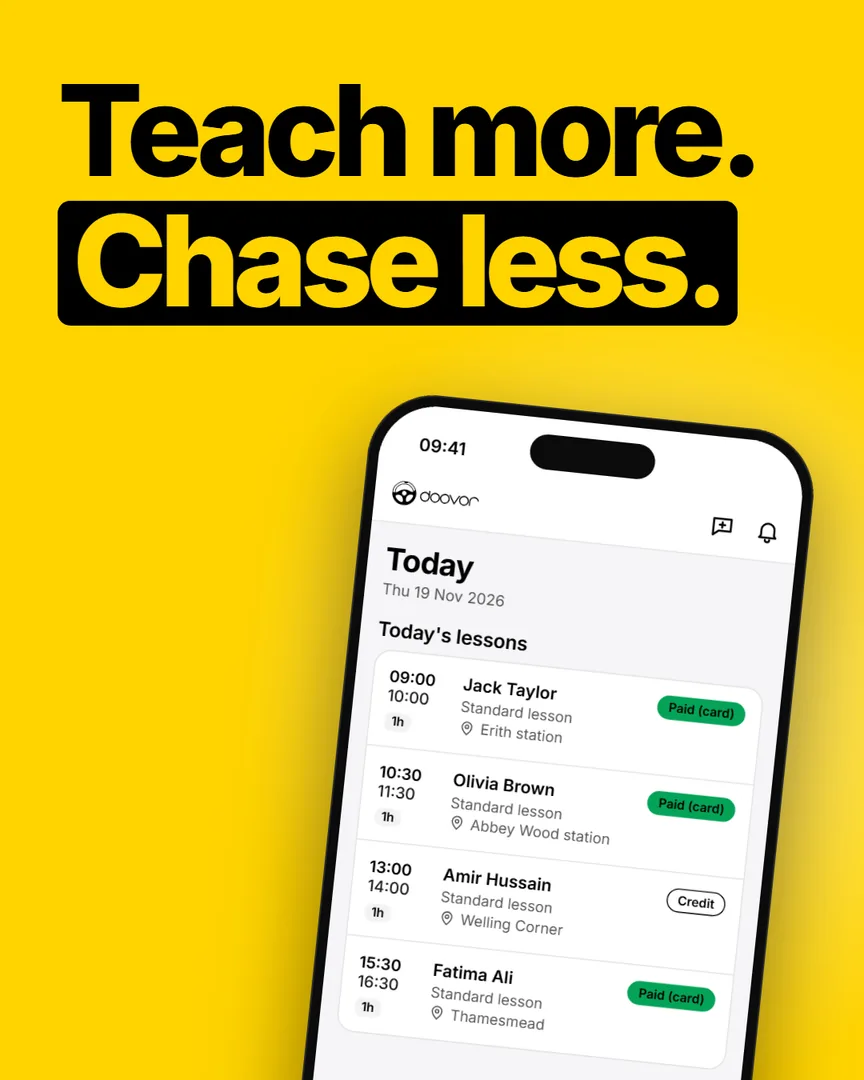
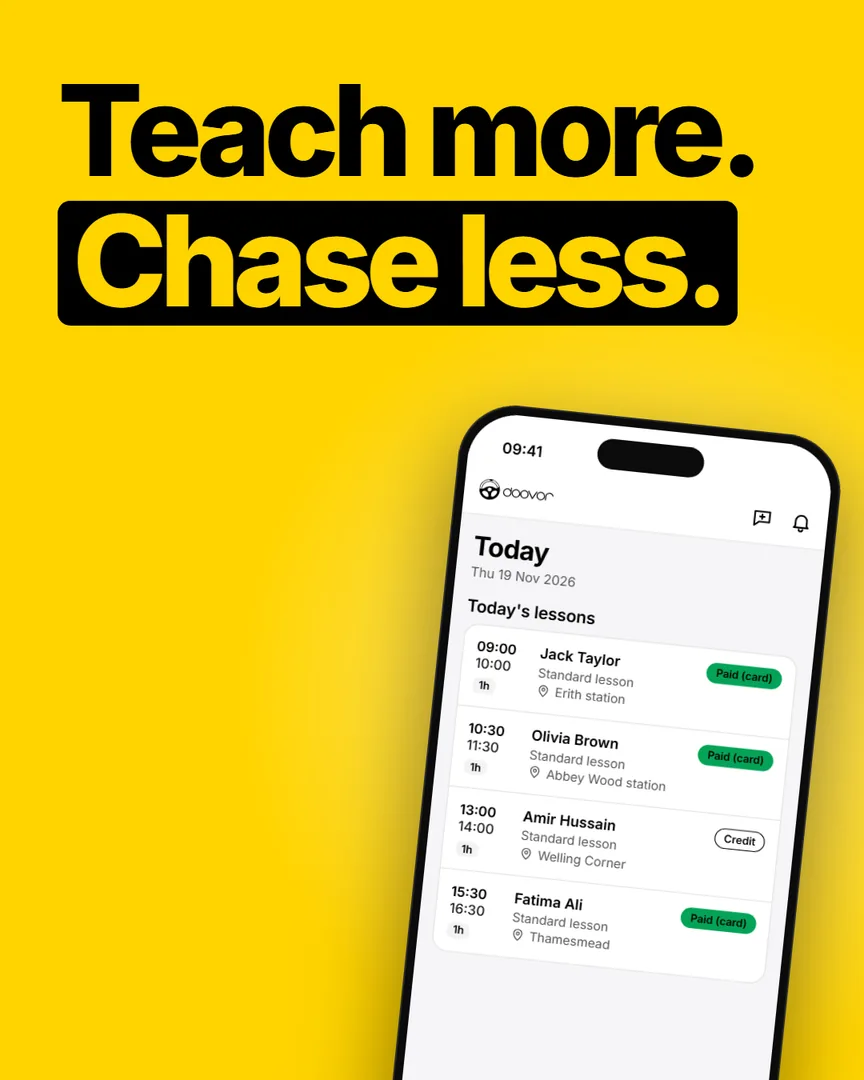
fix(site): the film's hook and cover on a phone PRD 8.3 D-410
On a phone the marked words start a line of their own, rather than one
of them ending the first. The cover's phone is narrower and further
right, so the Play button never covers it at 375 or 390 px.

Changed region(s): [[0.2812, 0.3667, 1.0, 1.0], [0.8125, 0.4583, 0.8438, 0.4889]]

diff --git a/apps/web/src/components/site/join-parts.tsx b/apps/web/src/components/site/join-parts.tsx
@@ -142,6 +142,8 @@ export function FilmBand({ id, title, children }: { id: string; title: { before:
       <div className="mx-auto flex w-full max-w-6xl flex-col items-center gap-8 px-4 py-14 md:gap-10 md:px-6 md:py-20">
         <h2 id={`${id}-heading`} className="max-w-3xl text-center text-h1 text-balance md:text-display">
           {title.before}
+          {/* On a phone the marked words start a line of their own, rather than one of them ending the first. */}
+          <br className="md:hidden" />
           <Marked>{title.marked}</Marked>
         </h2>
         <div className="flex w-full max-w-[26rem] flex-col gap-5">{children}</div>
